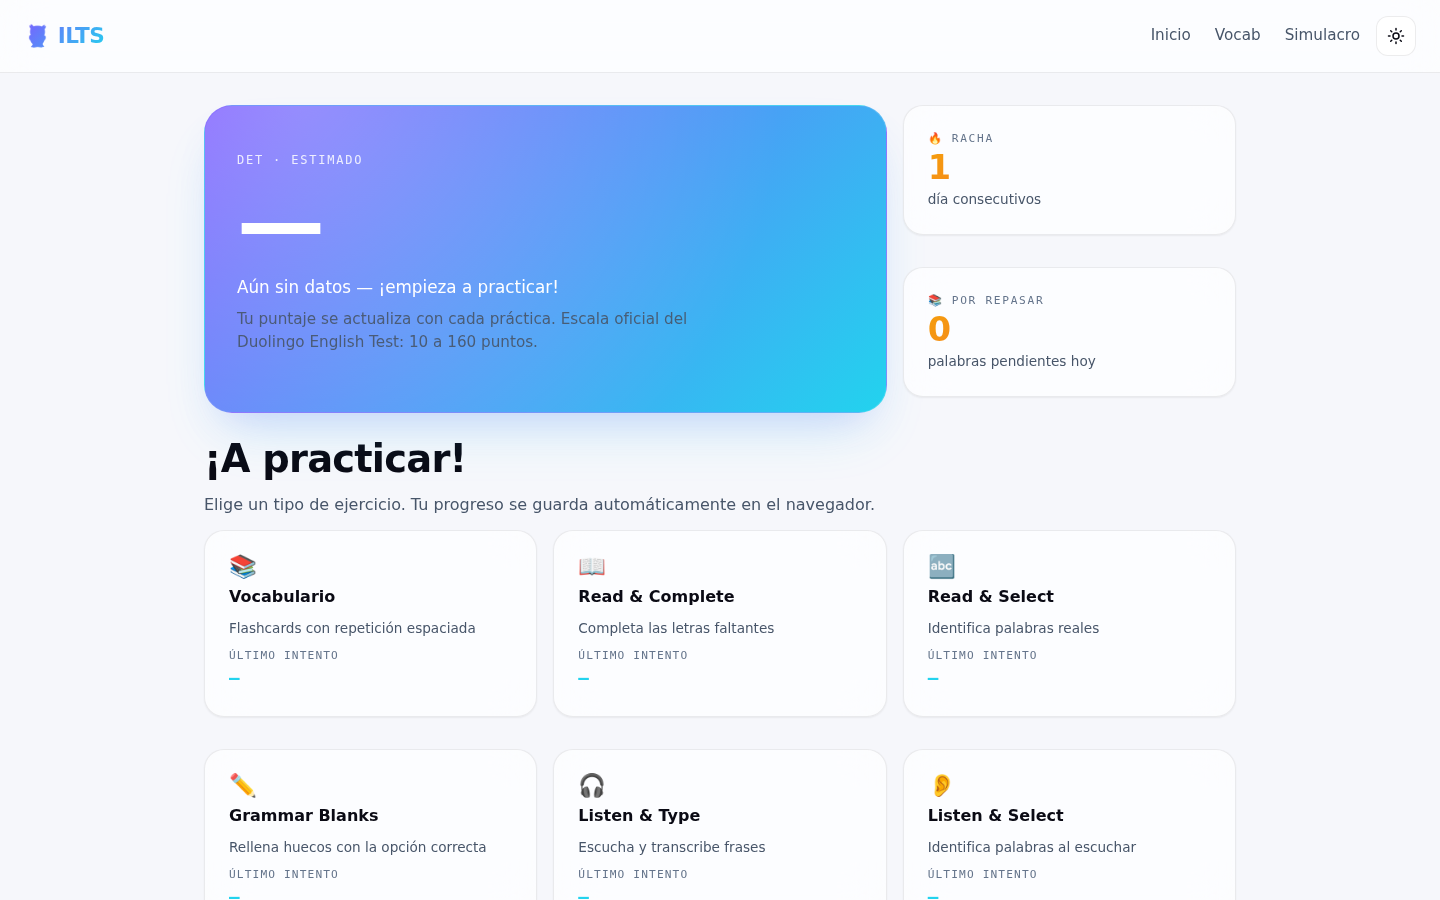
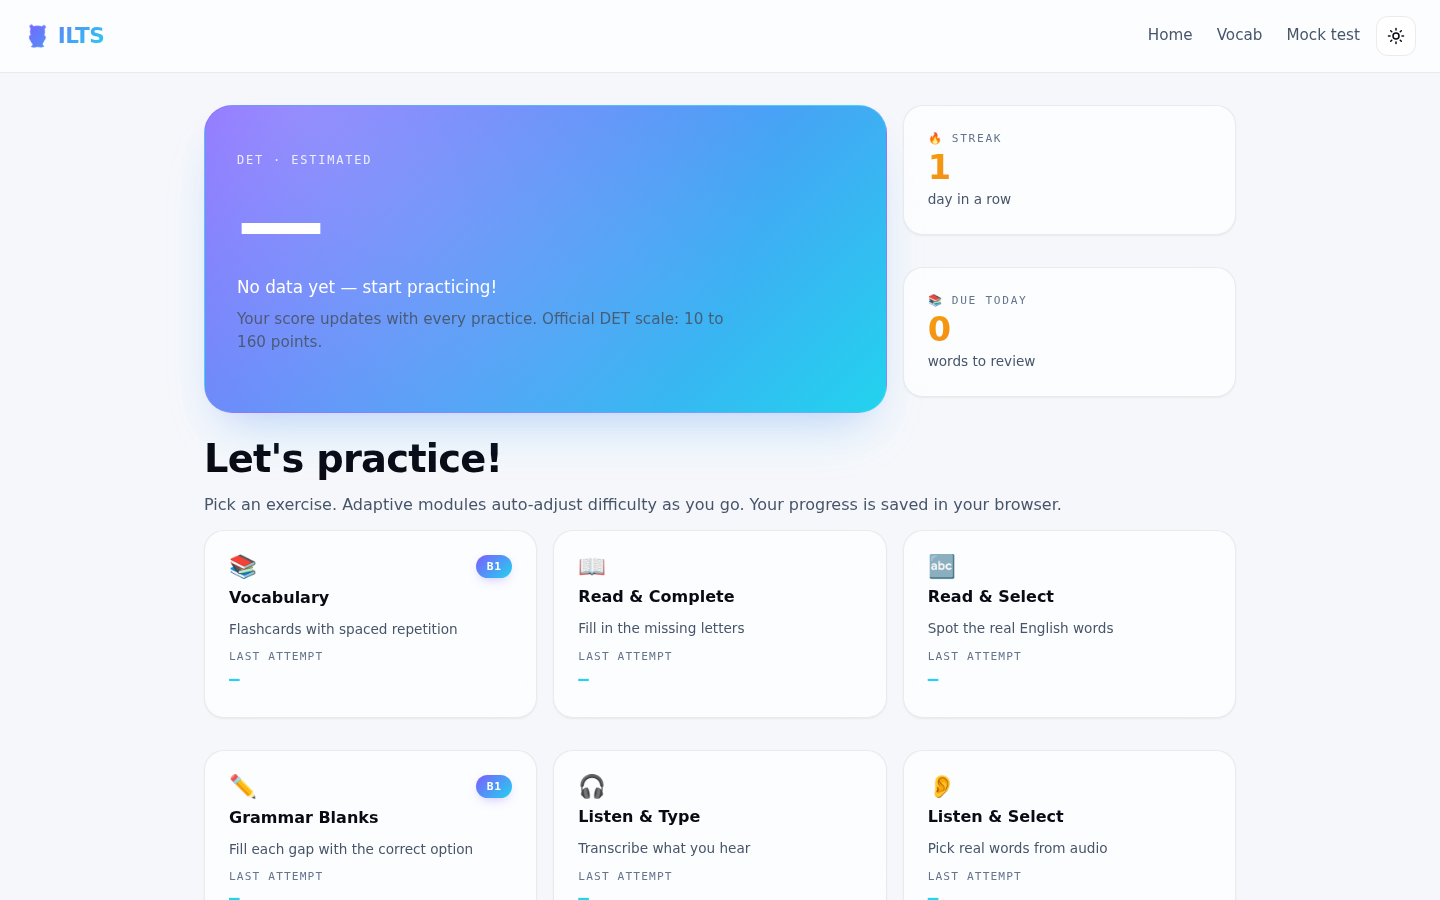
docs: document adaptive levels + English-only UI, refresh screenshots
- README: replace "UI in Spanish, targeted at Latin American students"
  with adaptive-difficulty positioning; add "Adaptive difficulty"
  section explaining thresholds and spillover; update feature bullets
  (210+ vocab, 46+ grammar, level badges).
- docs/ARCHITECTURE.md: document state.levels and the adjustLevel()
  helper, including threshold constants and default level.
- docs/DATA-SCHEMA.md: `level` field added to grammar.json schema table.
- CONTRIBUTING.md: ground-rules line now says UI/docs/comments all in
  English.
- CHANGELOG.md: [0.3.0] entry covering adaptive, i18n, and data.
- docs/screenshots/*.png: regenerated at 1440×900 / 390×844 for the
  new English UI; hero now shows B1 badges on adaptive tiles and the
  vocabulary screenshot shows the level badge inside the module header.

https://claude.ai/code/session_01QZY9nG1jhMpXVxBXvjbHPb

diff --git a/README.md b/README.md
@@ -34,21 +34,22 @@ Runs entirely in your browser. No sign-up, no tracking, no backend.
 
 The **Duolingo English Test (DET)** is a 160-point online English proficiency exam accepted by 5000+ universities. It costs money, and most published prep material is locked behind paywalls.
 
-**ILTS** is a browser-based study tool that lets you practice every DET question type, track your progress with spaced repetition, and get an estimated DET score based on your accuracy — all stored locally in your browser. The UI is in Spanish, targeted at Latin American students preparing for university admissions.
+**ILTS** is a browser-based study tool that lets you practice every DET question type, track your progress with spaced repetition, and get an estimated DET score based on your accuracy — all stored locally in your browser. **Adaptive modules** (vocabulary and grammar) adjust their difficulty in real time: when you answer well they level you up (B1 → B2 → C1 → C2) and pull harder material; when you struggle they ease you down so momentum is never lost.
 
 > ⚠ **Disclaimer:** ILTS is an independent study aid. It is not affiliated with or endorsed by Duolingo. Estimated scores are approximations based on accuracy and should not be treated as official predictions.
 
 ## Features
 
-- 📚 **Vocabulary flashcards** — 130+ academic words (B1–C1) with Leitner-box spaced repetition
+- 📚 **Adaptive vocabulary flashcards** — 210+ academic words (B1 → C2) with Leitner-box spaced repetition; the deck auto-filters to your current level
+- ✏ **Adaptive grammar blanks** — 46+ multiple-choice items tagged B1 to C2; the session drifts up or down based on your accuracy
 - 📖 **Read & Complete** — 3-minute cloze passages where you fill in missing letters
 - 🔤 **Read & Select** — 75-second real-vs-fake English word identification
-- ✏ **Grammar Blanks** — 10-question multiple-choice fill-in-the-blank drills
 - 🎧 **Listen & Type** — Transcribe full sentences read by Web Speech API TTS
 - 👂 **Listen & Select** — 90-second audio-based real-word identification
 - 🖼 **Write About Photo** — 60-second image description prompts (Unsplash)
 - 📝 **Writing Sample** — 5-minute essay practice with real DET-style prompts
 - 🏁 **Mock Test** — 6-question mixed simulation with DET score estimate and CEFR band (A1–C2)
+- 📈 **Adaptive difficulty** — the app levels you up at ≥ 80 % accuracy and down at ≤ 40 %, so you always practice at the edge of your comfort zone
 - 🔥 **Streak tracking & progress persistence** — everything saved to `localStorage`
 - 🌓 **Dark/light theme** with system-preference detection
 - ♿ **Accessible** — keyboard navigation, focus rings, `prefers-reduced-motion` respected
@@ -136,6 +137,18 @@ The dashboard score averages the last **5 attempts per section**, then averages 
 | 10–54     | A1   | Beginner                    |
 
 See [`js/scoring.js`](js/scoring.js) for the implementation.
+
+## Adaptive difficulty
+
+Vocabulary and Grammar Blanks track a **current CEFR level** per section (`state.levels.vocabulary`, `state.levels.fillBlanks`, stored in `localStorage['det_progress_v1']`). After every session:
+
+```
+if session accuracy ≥ 0.80 → level up   (B1 → B2 → C1 → C2)
+if session accuracy ≤ 0.40 → level down (C2 → C1 → B2 → B1)
+otherwise                    → stay
+```
+
+The next session's deck is filtered to the new level; if the pool is thin, it spills over to adjacent levels so you always get a full session. A small badge on each adaptive tile (and inside the exercise header) shows the current level at a glance.
 
 ## Roadmap
 

diff --git a/CHANGELOG.md b/CHANGELOG.md
@@ -7,6 +7,30 @@ and this project adheres to [Semantic Versioning](https://semver.org/spec/v2.0.0
 
 ## [Unreleased]
 
+## [0.3.0] — 2026-04-18
+
+### Added
+- **Adaptive difficulty** for Vocabulary and Grammar Blanks. Sessions auto-filter their pool by the learner's current CEFR level (`state.levels.vocabulary`, `state.levels.fillBlanks`). Accuracy ≥ 0.8 promotes one level (B1 → B2 → C1 → C2); accuracy ≤ 0.4 demotes. Spillover to adjacent levels when the exact-level pool is small.
+- `getLevel()` and `adjustLevel()` helpers in `js/storage.js`; `LEVELS`, `DEFAULT_LEVEL`, `LEVEL_UP_THRESHOLD`, `LEVEL_DOWN_THRESHOLD` constants exported.
+- `.level-badge` / `.level-badge-lg` CSS component for CEFR labels; shown on every adaptive dashboard tile and in the header of adaptive exercise modules.
+- Session-complete screens now announce promotions and demotions.
+- **65 new vocabulary entries** (+25 C1, +40 C2). Totals: 34 B1 / 75 B2 / 59 C1 / 40 C2 (210 words).
+- `level` field on every grammar item. Grammar pool grown from 20 to 46 items balanced across B1 (12), B2 (12), C1 (12), C2 (10) — inversion, mixed conditionals, subjunctive, cleft structures, future perfect continuous, etc.
+
+### Changed
+- **App UI translated from Spanish to English** in every module, `index.html`, `js/app.js`, `js/tts.js`, dashboard. `<html lang="en">`.
+- Docs reframe: `README.md` no longer describes the app as Spanish-only; adds "Adaptive difficulty" section explaining thresholds.
+- `docs/ARCHITECTURE.md` documents the adaptive level subsystem.
+- `docs/DATA-SCHEMA.md` documents the new `level` field on grammar items.
+- `CONTRIBUTING.md`: code style line now says UI/docs/comments are all in English.
+
+### Preserved
+- `localStorage['det_progress_v1']` schema remains forward-compatible — existing users gain `state.levels = { vocabulary: 'B1', fillBlanks: 'B1' }` on first read with no migration needed.
+- Aurora Bento design system untouched except for the new `.level-badge` component.
+- No exercise logic changed other than vocabulary/fill-blanks filtering.
+
+## [0.2.1] — 2026-04-18
+
 ### Added
 - `.github/workflows/pages.yml` — GitHub Actions workflow that deploys the static site to GitHub Pages on every push to `main`
 - `.nojekyll` — disables Jekyll on Pages so the repo is served as-is

diff --git a/docs/DATA-SCHEMA.md b/docs/DATA-SCHEMA.md
@@ -49,6 +49,7 @@ An array of multiple-choice fill-in-the-blank items.
 ```json
 [
   {
+    "level": "B2",
     "text": "If I ___ more time, I would travel the world.",
     "options": ["have", "had", "will have", "having"],
     "answer": "had",
@@ -59,12 +60,13 @@ An array of multiple-choice fill-in-the-blank items.
 
 | Field     | Type              | Required | Description                                                                 |
 |-----------|-------------------|----------|-----------------------------------------------------------------------------|
+| `level`   | string            | yes      | CEFR level: `B1` \| `B2` \| `C1` \| `C2`. Used by the adaptive filter       |
 | `text`    | string            | yes      | Sentence with `___` marking the blank (exactly one per item)                |
 | `options` | array of strings  | yes      | 3–4 choices; must include the correct answer                                |
 | `answer`  | string            | yes      | Must match one of `options` exactly (case-sensitive)                        |
 | `explain` | string            | yes      | Short explanation shown as feedback after answering                         |
 
-**How to add:** append an object. Keep `options` order random (the module shows them in array order — shuffling is done at render time).
+**How to add:** append an object with the appropriate `level`. Keep at least 10 items per level so a full session can be built without spillover. Shuffling happens at render time.
 
 ---
 

diff --git a/docs/ARCHITECTURE.md b/docs/ARCHITECTURE.md
@@ -73,6 +73,10 @@ Modules have no shared state. Anything that needs to persist between sessions go
     writePhoto:   [...],
     writingSample:[...],
   },
+  levels: {
+    vocabulary: 'B2',   // adaptive: B1 | B2 | C1 | C2
+    fillBlanks: 'B1',
+  },
   mockTestHistory: [{ score: 110, breakdown: {...}, at: ISO }], // max 20
   essays: [{ type, prompt, text, wordCount, date }]              // max 50
 }
@@ -87,6 +91,24 @@ updateProgress(state => {
 ```
 
 The wrapper merges missing keys from `defaultState()` on every read, so schema additions are forward-compatible without migrations. **If you change the schema in a breaking way, bump the key to `det_progress_v2` and write a migration.**
+
+### Adaptive levels
+
+`storage.js` also exposes two helpers used by adaptive modules:
+
+```js
+getLevel('vocabulary')         // → 'B2'
+adjustLevel('vocabulary', 0.83) // → { before: 'B2', after: 'C1', direction: 'up' }
+```
+
+Thresholds (defined in `storage.js`):
+
+- `LEVEL_UP_THRESHOLD = 0.8` — session accuracy above this promotes the learner
+- `LEVEL_DOWN_THRESHOLD = 0.4` — accuracy below this drops them one level
+- Default level for a new learner: `B1`
+- Levels clamp at the ends (no demotion below `B1`, no promotion above `C2`)
+
+Each adaptive module filters its data pool by the current level, with spillover to adjacent levels if the exact-level pool is too thin to fill a session.
 
 ### Theme
 

diff --git a/CONTRIBUTING.md b/CONTRIBUTING.md
@@ -16,7 +16,7 @@ Thanks for considering a contribution! ILTS is a small, dependency-free project 
 
 - **No new dependencies** without discussion in an issue first. Vanilla JS is a feature.
 - **No build step.** The repo serves as-is from any static host.
-- App UI strings stay in **Spanish** (audience is Latin American students). Docs and code comments are in **English**.
+- App UI, docs, and code comments are all in **English**.
 - Be kind in reviews and issues.
 
 ## Development workflow
